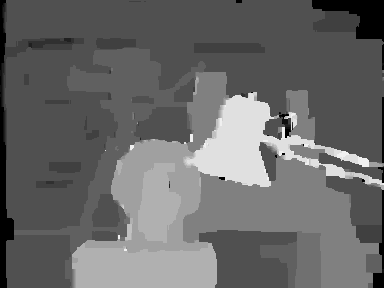
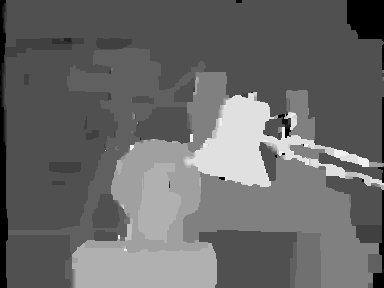
Add files via upload

diff --git a/main.cpp b/main.cpp
@@ -34,7 +34,7 @@ int computeEnergy();
 int main()
 {
 	levels = 16;
-	iterations = 5;
+	iterations = 40;
 	lambda = 5;
 	truncationThreshold = 2;
 
@@ -81,7 +81,7 @@ int main()
 	// Start iterations
 	for (int iter = 1; iter <= iterations; iter++)
 	{
-		// Update messages
+		// Update messages (Accelerated)
 		for (int y = 0; y < height; y++)
 			for (int x = 0; x < width - 1; x++)
 				sendMessageRight(x, y);
